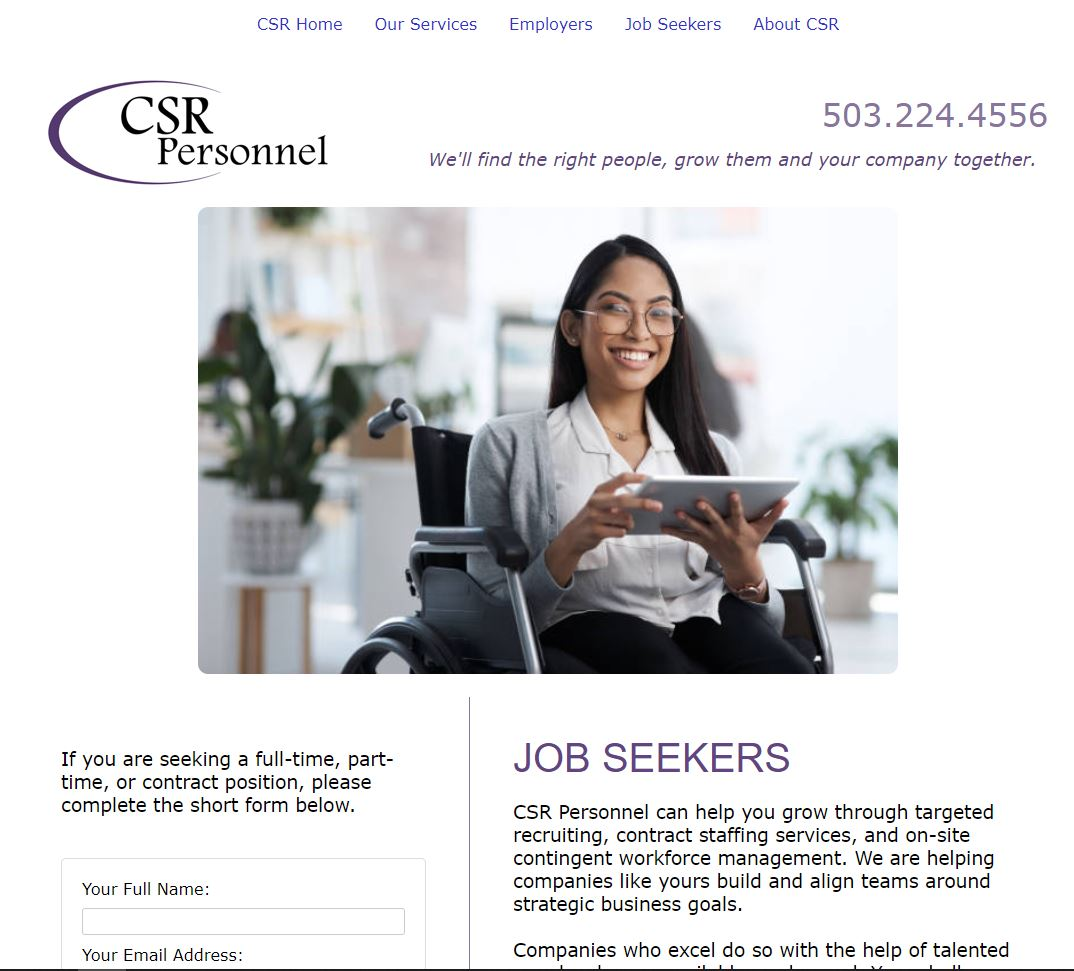
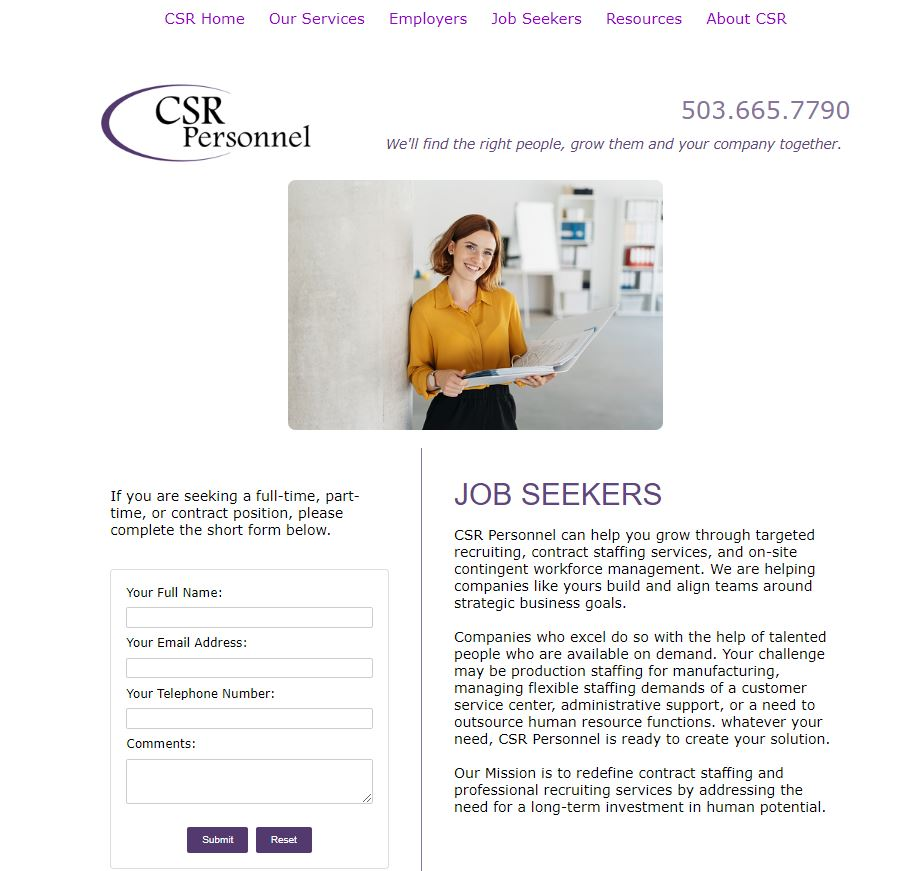
updating projects

diff --git a/src/components/pages/CSR-update.js b/src/components/pages/CSR-update.js
@@ -4,6 +4,11 @@ import oldHome from "../images/CSR/old-home.JPG";
 import recommendations from "../images/CSR/recommendations.JPG";
 import oldNavbar from "../images/CSR/old-navbar.jpg";
 import oldFooter from "../images/CSR/old-footer.JPG";
+import oldJobseekers from "../images/CSR/old-jobseekers.JPG";
+import newHome from "../images/CSR/1-new-CSR-home.JPG";
+import newServices from "../images/CSR/2-new-CSR-our-services.JPG";
+import newEmployers from "../images/CSR/3-new-CSR-employers.JPG";
+import newSeekers from "../images/CSR/4-new-CSR-job-seekers.JPG";
 
 export default function CSR() {
   return (
@@ -28,7 +33,7 @@ export default function CSR() {
         with the site owner to go over my findings.
       </p>
       <div className="recommendations-container">
-        <img src={recommendations} alt="old home page"></img>
+        <img src={recommendations} alt="recommendations to the owner"></img>
       </div>
       <div>
         <p className="CSR-container-blog">
@@ -52,8 +57,32 @@ export default function CSR() {
           updated.
         </p>
       </div>
-      <div className="old-navbar-container">
+      <div className="old-footer-container">
         <img src={oldFooter} alt="old footer"></img>
+      </div>
+      <p className="CSR-container-blog">
+        The footer had broken links going to two Facebook pages. It also had a
+        link to Google Maps that opens in a new tab.
+      </p>
+      <p className="CSR-container-blog">
+        The site also had a form for the user to imput information, which is
+        great! But it was so tiny on the screen.
+      </p>
+      <div className="old-jobseekers-container">
+        <img src={oldJobseekers} alt="old jobseekers"></img>
+      </div>
+      <p className="CSR-container-blog">
+        What it looks like today:
+      </p>
+      <div className="new-site-container">
+        <div>
+        <img src={newHome} alt="new home page"></img></div>
+        <div>
+        <img src={newServices} alt="new services page"></img></div>
+        <div>
+        <img src={newEmployers} alt="new employers page"></img></div>
+        <div>
+        <img src={newSeekers} alt="new job seekers page"></img></div>
       </div>
     </div>
   );

diff --git a/src/components/pages/pages.css b/src/components/pages/pages.css
@@ -199,10 +199,22 @@
 
 .old-home-container,
 .recommendations-container,
-.old-navbar-container {
+.old-navbar-container,
+.old-footer-container,
+.old-jobseekers-container {
   display: flex;
   justify-content: center;
   align-items: center;
+}
+
+.new-site-container {
+  display: flex;
+  flex-direction: column;
+  align-items: center;
+}
+.new-site-container img {
+  width: 100%;
+  margin-bottom: 20px;
 }
 
 @media only screen and (max-width: 768px) {
